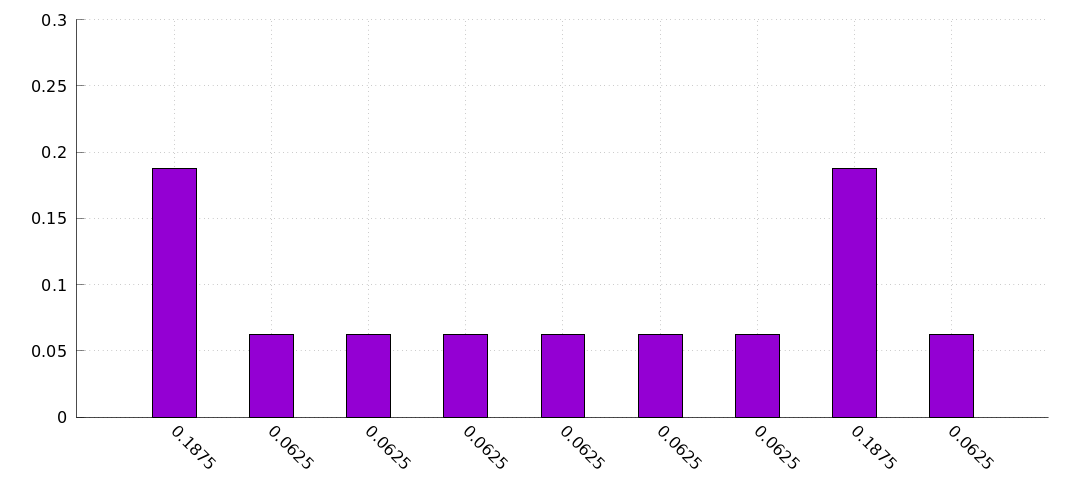
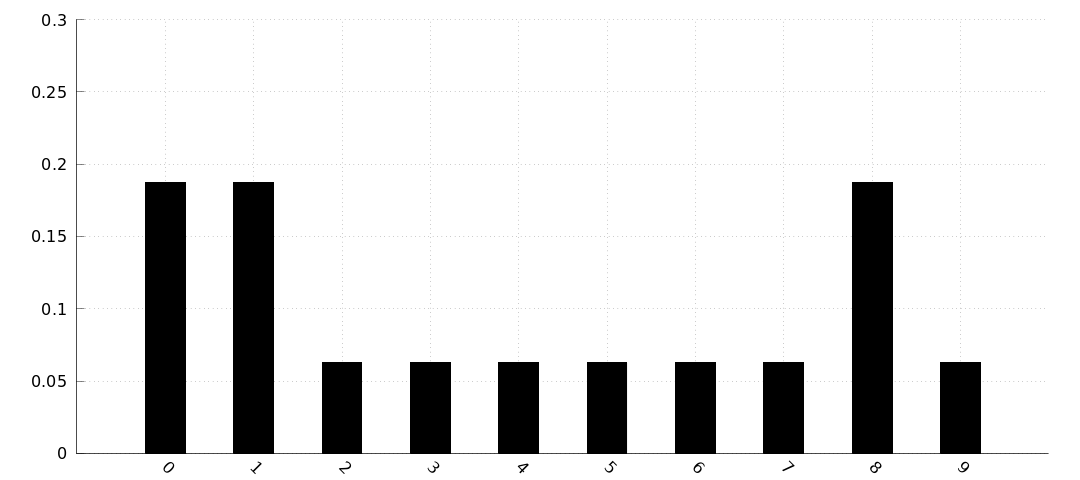
Add predict move to ch02

diff --git a/02-discrete-bayes/src/discrete-bayes.cpp b/02-discrete-bayes/src/discrete-bayes.cpp
@@ -37,6 +37,41 @@ std::vector<double> likelihood_hallway(const std::vector<int> &hall,
   return likelihood;
 }
 
+std::vector<double> predict_move(const std::vector<double> &belief,
+                                const int move, const double p_under,
+                                const double p_correct, const double p_over) {
+  int n = belief.size();
+  std::vector<double> prior(n, 0.);
+  for(int i = 0; i < n; ++i) {
+    prior[i] = belief[(i - move) % n] * p_correct +
+              belief[(i - move - 1) % n] * p_over +
+              belief[(i - move + 1) % n] * p_under;
+  }
+  return prior;
+}
+
+std::vector<double> predict_move_convolution(const std::vector<double> &belief,
+                                const std::vector<double> &kernel,
+                                const int offset) {
+  int N = belief.size();
+  int kN = kernel.size();
+  int width = (kN - 1) / 2;
+
+  std::vector<double> prior(N, 0.);
+  int idx = 0;
+  for(int i = 0; i < N; ++i) {
+    for(int k = 0; k < kN; ++k) {
+      idx = (i + (width - k) - offset) % N;
+      if (idx < 0) {
+        idx = N + idx;
+      }
+      //std::cout << "i: " << i << " idx: " << idx << " k: " << k << std::endl;
+      prior[i] += belief[idx] * kernel[k];
+    }
+  }
+  return prior;
+}
+
 int main() {
   std::vector<int> hallway{1, 1, 0, 0, 0, 0, 0, 0, 1, 0};
   std::vector<double> belief(10, 0.1);
@@ -44,14 +79,51 @@ int main() {
   std::vector<double> likelihood = likelihood_hallway(hallway, 1, .75);
   std::vector<double> posterior = update(likelihood, belief);
 
-  for (const double &el: posterior){
-    std::cout << el << std::endl;
-  }
+  // for (const double &el: posterior){
+  //   std::cout << el << std::endl;
+  // }
 
   std::ofstream ofs("../data/discrete-bayes1.dat");
-  ofs << "# data1" << std::endl;
+  ofs << "# data" << std::endl;
+  int idx = 0;
   for (const double &el: posterior){
-    ofs << el << std::endl;
+    ofs << idx++ << " " << el << std::endl;
+  }
+  ofs << std::endl << std::endl << std::endl;
+  ofs.close();
+
+  belief = {0., 0., .4, .6, 0., 0., 0., 0., 0., 0.};
+  ofs.open("../data/discrete-bayes2.dat");
+  ofs << "# belief" << std::endl;
+  idx = 0;
+  for (const double &el: belief){
+    ofs << idx++ << " " << el << std::endl;
+  }
+  ofs << std::endl << std::endl << std::endl;
+  std::vector<double> prior = predict_move(belief, 2, .1, .8, .1);
+  ofs << "# move" << std::endl;
+  idx = 0;
+  for (const double &el: prior){
+    ofs << idx++ << " " << el << std::endl;
+  }
+  ofs << std::endl << std::endl << std::endl;
+  ofs.close();
+
+  belief = {.05, .05, .05, .05, .55, .05, .05, .05, .05, .05};
+  std::vector<double> kernel = {.1, .8, .1};
+  ofs.open("../data/discrete-bayes3.dat");
+  ofs << "# belief" << std::endl;
+  idx = 0;
+  for (const double &el: belief){
+    ofs << idx++ << " " << el << std::endl;
+  }
+  ofs << std::endl << std::endl << std::endl;
+  std::vector<double> prior1 = predict_move_convolution(belief, kernel, 1);
+  ofs << "# move" << std::endl;
+  idx = 0;
+  for (const double &el: prior1){
+    std::cout << idx++ << " " << el << std::endl;
+    ofs << idx++ << " " << el << std::endl;
   }
   ofs << std::endl << std::endl << std::endl;
   ofs.close();
